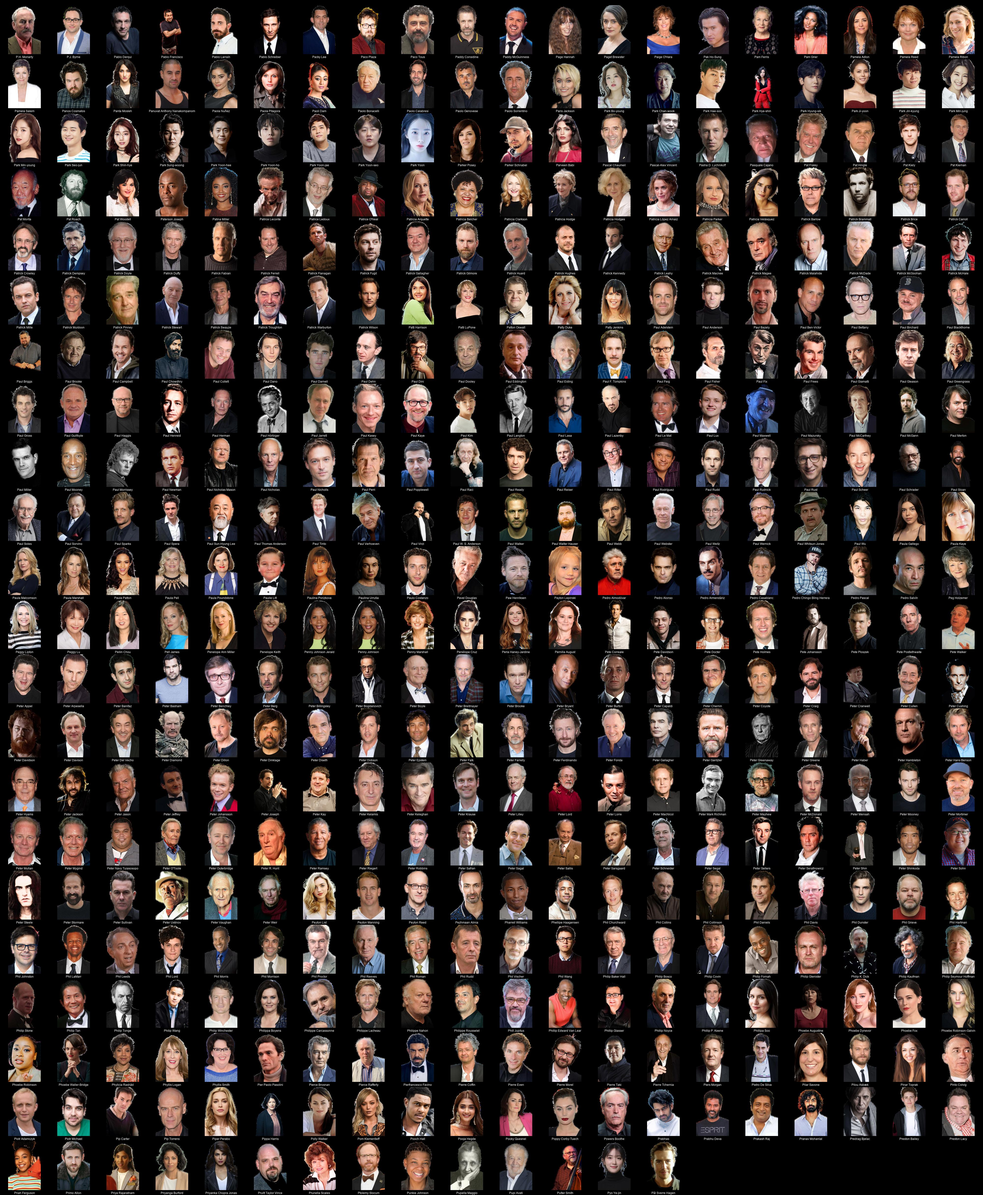
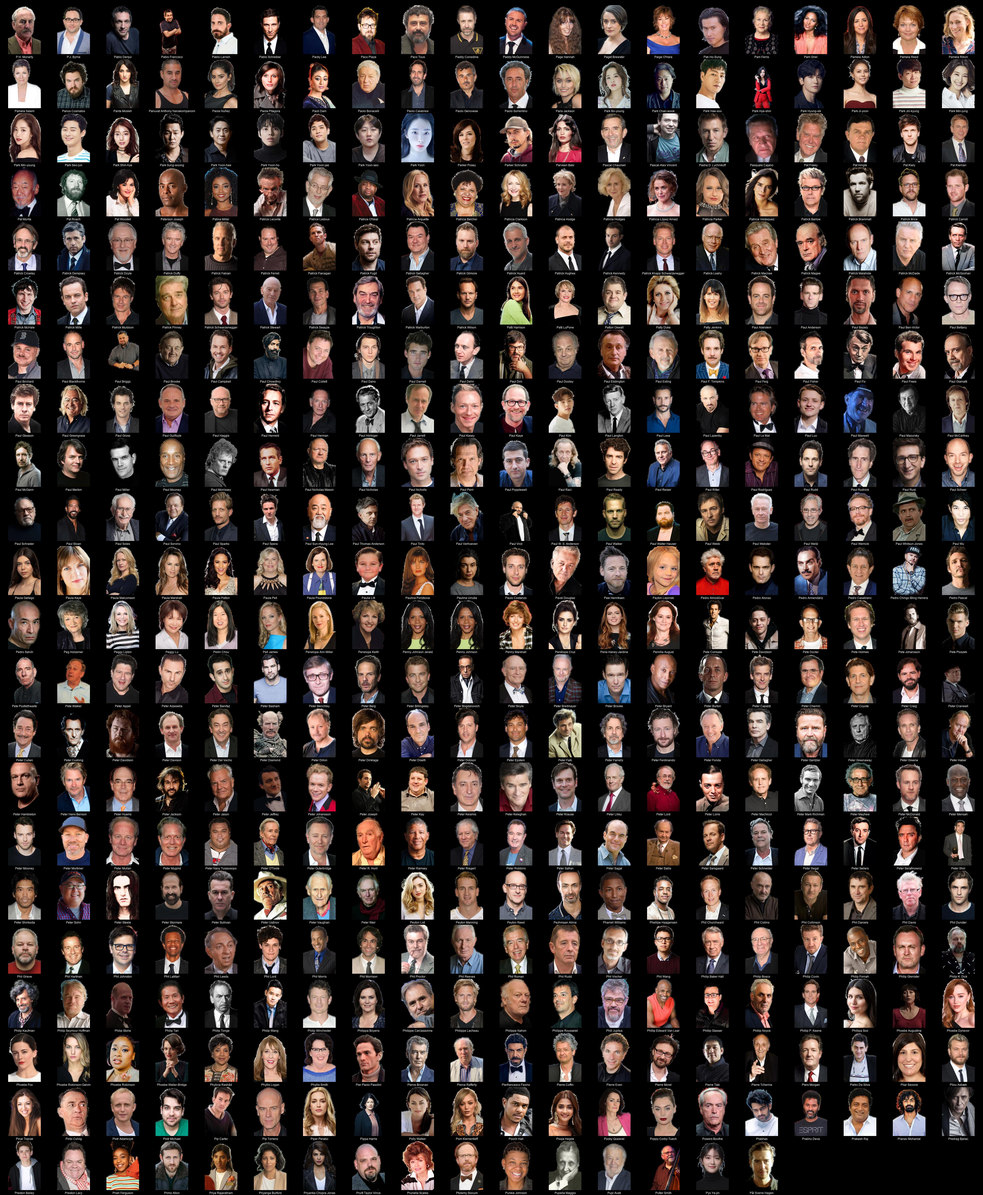
chore: sync posters & docs [transparent] — 2025-09-04 17:33

diff --git a/README.md b/README.md
@@ -1,4 +1,4 @@
-# Kometa People Images - Transparent (transparent) (11124 Images)
+# Kometa People Images - Transparent (transparent) (11126 Images)
 
 <details><summary><a href="'">' (1 Images)</a></summary>
 
@@ -8186,7 +8186,7 @@
 * [Owen Teale](https://raw.githubusercontent.com/kometa-team/People-Images-transparent/master/O/Images/Owen%20Teale.png)
 * [Owen Wilson](https://raw.githubusercontent.com/kometa-team/People-Images-transparent/master/O/Images/Owen%20Wilson.png)
 </details>
-<details><summary><a href="P">P (434 Images)</a></summary>
+<details><summary><a href="P">P (436 Images)</a></summary>
 
 * [P.H. Moriarty](https://raw.githubusercontent.com/kometa-team/People-Images-transparent/master/P/Images/P.H.%20Moriarty.png)
 * [P.J. Byrne](https://raw.githubusercontent.com/kometa-team/People-Images-transparent/master/P/Images/P.J.%20Byrne.png)
@@ -8281,6 +8281,7 @@
 * [Patrick Huard](https://raw.githubusercontent.com/kometa-team/People-Images-transparent/master/P/Images/Patrick%20Huard.png)
 * [Patrick Hughes](https://raw.githubusercontent.com/kometa-team/People-Images-transparent/master/P/Images/Patrick%20Hughes.png)
 * [Patrick Kennedy](https://raw.githubusercontent.com/kometa-team/People-Images-transparent/master/P/Images/Patrick%20Kennedy.png)
+* [Patrick Knapp Schwarzenegger](https://raw.githubusercontent.com/kometa-team/People-Images-transparent/master/P/Images/Patrick%20Knapp%20Schwarzenegger.png)
 * [Patrick Leahy](https://raw.githubusercontent.com/kometa-team/People-Images-transparent/master/P/Images/Patrick%20Leahy.png)
 * [Patrick Macnee](https://raw.githubusercontent.com/kometa-team/People-Images-transparent/master/P/Images/Patrick%20Macnee.png)
 * [Patrick Magee](https://raw.githubusercontent.com/kometa-team/People-Images-transparent/master/P/Images/Patrick%20Magee.png)
@@ -8291,6 +8292,7 @@
 * [Patrick Mille](https://raw.githubusercontent.com/kometa-team/People-Images-transparent/master/P/Images/Patrick%20Mille.png)
 * [Patrick Muldoon](https://raw.githubusercontent.com/kometa-team/People-Images-transparent/master/P/Images/Patrick%20Muldoon.png)
 * [Patrick Pinney](https://raw.githubusercontent.com/kometa-team/People-Images-transparent/master/P/Images/Patrick%20Pinney.png)
+* [Patrick Schwarzenegger](https://raw.githubusercontent.com/kometa-team/People-Images-transparent/master/P/Images/Patrick%20Schwarzenegger.png)
 * [Patrick Stewart](https://raw.githubusercontent.com/kometa-team/People-Images-transparent/master/P/Images/Patrick%20Stewart.png)
 * [Patrick Swayze](https://raw.githubusercontent.com/kometa-team/People-Images-transparent/master/P/Images/Patrick%20Swayze.png)
 * [Patrick Troughton](https://raw.githubusercontent.com/kometa-team/People-Images-transparent/master/P/Images/Patrick%20Troughton.png)

diff --git a/P/README.md b/P/README.md
@@ -1,4 +1,4 @@
-# Kometa People Images - Transparent (transparent) - P (434 Images)
+# Kometa People Images - Transparent (transparent) - P (436 Images)
 ![Grid](grid.jpg)
 
 * [P.H. Moriarty](https://raw.githubusercontent.com/kometa-team/People-Images-transparent/master/P/Images/P.H.%20Moriarty.png)
@@ -94,6 +94,7 @@
 * [Patrick Huard](https://raw.githubusercontent.com/kometa-team/People-Images-transparent/master/P/Images/Patrick%20Huard.png)
 * [Patrick Hughes](https://raw.githubusercontent.com/kometa-team/People-Images-transparent/master/P/Images/Patrick%20Hughes.png)
 * [Patrick Kennedy](https://raw.githubusercontent.com/kometa-team/People-Images-transparent/master/P/Images/Patrick%20Kennedy.png)
+* [Patrick Knapp Schwarzenegger](https://raw.githubusercontent.com/kometa-team/People-Images-transparent/master/P/Images/Patrick%20Knapp%20Schwarzenegger.png)
 * [Patrick Leahy](https://raw.githubusercontent.com/kometa-team/People-Images-transparent/master/P/Images/Patrick%20Leahy.png)
 * [Patrick Macnee](https://raw.githubusercontent.com/kometa-team/People-Images-transparent/master/P/Images/Patrick%20Macnee.png)
 * [Patrick Magee](https://raw.githubusercontent.com/kometa-team/People-Images-transparent/master/P/Images/Patrick%20Magee.png)
@@ -104,6 +105,7 @@
 * [Patrick Mille](https://raw.githubusercontent.com/kometa-team/People-Images-transparent/master/P/Images/Patrick%20Mille.png)
 * [Patrick Muldoon](https://raw.githubusercontent.com/kometa-team/People-Images-transparent/master/P/Images/Patrick%20Muldoon.png)
 * [Patrick Pinney](https://raw.githubusercontent.com/kometa-team/People-Images-transparent/master/P/Images/Patrick%20Pinney.png)
+* [Patrick Schwarzenegger](https://raw.githubusercontent.com/kometa-team/People-Images-transparent/master/P/Images/Patrick%20Schwarzenegger.png)
 * [Patrick Stewart](https://raw.githubusercontent.com/kometa-team/People-Images-transparent/master/P/Images/Patrick%20Stewart.png)
 * [Patrick Swayze](https://raw.githubusercontent.com/kometa-team/People-Images-transparent/master/P/Images/Patrick%20Swayze.png)
 * [Patrick Troughton](https://raw.githubusercontent.com/kometa-team/People-Images-transparent/master/P/Images/Patrick%20Troughton.png)
